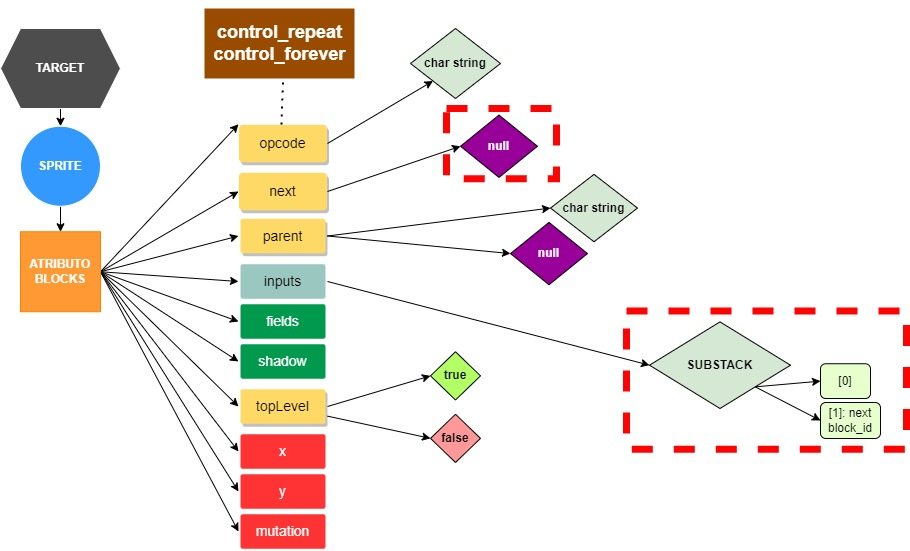
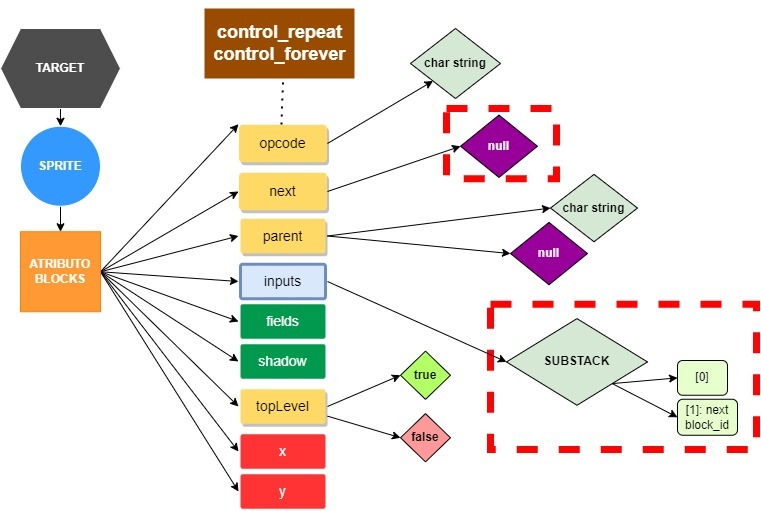
Updating

diff --git a/memoria.tex b/memoria.tex
@@ -626,15 +626,15 @@ En este capítulo se realiza una descripción detallada de la estructura del sof
 \section{Entorno y herramientas de trabajo} 
 \label{sec:entorno}
 
-Para poder obtener resultados confiables en múltiples entornos, se compila, ejecuta y depura el código en los sistemas operativos Windows e UNIX. Se hace uso de tres aplicaciones para mantener sincronizados ficheros, control de versiones y llevar un control sobre el planteamiento y la consecución de objetivos:
+Para poder obtener resultados confiables en múltiples entornos, se compila, ejecuta y depura el código en los sistemas operativos Windows e UNIX. Se hace uso de tres aplicaciones para mantener sincronizados ficheros, historial de versiones y tener un control sobre la consecución de objetivos:
 
 \begin{itemize}
-  \item \textbf{Trello:} Es usada para gestionar y organizar, a modo de tableros, las fases y tareas por realizar tanto a corto, medio y largo plazo. 
+  \item \textbf{Trello:} Aplicación usada para gestionar y organizar, a modo de tableros, las fases de las tareas a corto, medio y largo plazo. 
   \item \textbf{Dropbox:} Herramienta empleada como servicio de almacenamiento en la nube para mantener sincronizados ficheros, imágenes y referencias de la memoria.
-  \item \textbf{Github:} Es usada para alojar el código y mantener un control de versiones. Resulta muy útil para dar marcha atrás en caso de errores detectados mientras se avanza en la práctica, esto gracias al seguimiento de los cambios en el código
+  \item \textbf{Github:} Entorno usado para alojar el código y mantener un control de versiones. Resulta muy útil para dar marcha atrás en caso de errores o para crear nuevos hilos con modificaciones en el código.
 \end{itemize}
 
-En el diagrama de flujo de la imagen \ref{fig:diagrama_trabajo} se puede apreciar un diagrama del entorno y la comunicación entre las herramientas usadas.
+En la imagen \ref{fig:diagrama_trabajo} se puede apreciar un diagrama del entorno y la comunicación entre las herramientas usadas.
 
  \begin{figure}[!h]
     \centering
@@ -650,12 +650,12 @@ En el diagrama de flujo de la imagen \ref{fig:diagrama_trabajo} se puede aprecia
 
 %Si tu proyecto es un software, siempre es bueno poner la arquitectura (que es cómo se estructura tu programa a ``vista de pájaro'').
 
-A nivel general, el flujo del funcionamiento del programa es el que se puede apreciar en la imagen \ref{fig:fasedesejecucion}. El script a ejecutar es \textit{program.py} y de allí se irán concatenando llamadas a \textit{duplicatescripts.py}, \textit{most\_frequent\_blocks.py}, \textit{statistics.py} y finalmente, \textit{cluster.py}
+A nivel general, el flujo del funcionamiento del programa es el que se puede apreciar en la imagen \ref{fig:fasedesejecucion}. El script a ejecutar es \textit{program.py} y de allí se irán concatenando llamadas a \textit{duplicatescripts.py}, \textit{most\_frequent\_blocks.py}, \textit{statistics.py} y paralelamente, \textit{cluster.py}
 
 \begin{figure}[!htb]
   \centering
   \includegraphics[width=17cm, keepaspectratio]{img/flow.jpg}
-  \caption{Fase de extracción de datos}
+  \caption{Hilo de ejecución del programa}
   \label{fig:fasedesejecucion}
 \end{figure}
 
@@ -663,17 +663,19 @@ Para ejecutar el software es necesario que el usuario pase por línea de comando
 
 Los ficheros a analizar pueden estar en formato SB3 (extensión que emplea Scratch) en formato JSON o un fichero comprimido en formato ZIP. El software se ha desarrollado para ser escalable, por lo que, para realizar un análisis extensivo de muchos proyectos, es necesario comprimir los ficheros JSON en un contenedor ZIP. 
 
-A continuación, se detallan los scripts, funciones y clases relevantes del software desarrollado.
+A continuación, se detallan los scripts, funciones y clases relevantes del software.
 
 \subsection{program.py}
 
-Sirve como script principal. Su tarea principal es servir de hilo de ejecución de todo el programa, para ello extrae y parsea el contenido de ficheros JSON. En este programa se declara la forma como se escribirán los registros de control de ejecuciones en el archivo de logs, \textit{program\_logs.txt}, útil para depurar y encontrar excepciones durante la ejecución.
+Sirve como script principal. Su tarea es controlar el hilo de ejecución de todo el programa, para ello extrae y recorre el contenido de ficheros JSON. Esto es posible a través de las funciones \textbf{sb3\_json\_extraction} y \textbf{obtaining\_json}. En este script se declara la forma como se escribirán los registros de control de ejecuciones en el archivo de logs, \textit{program\_logs.txt}. Este fichero resulta muy útil para depurar y encontrar excepciones durante la ejecución.
 
 \subsection{duplicateScripts.py}
 
-Este programa toma como argumentos el nombre del fichero con su extensión correspondiente, el contenido del archivo JSON y el argumento opcional que indica si se ignorará, o no, ciertos tipos de bloques.
+Este script toma como argumentos el nombre del fichero con su extensión correspondiente, el contenido del archivo JSON y el argumento opcional que indica si se ignoraran, o no, ciertos tipos de bloques.
 
-El contenido del JSON se recorrerá a modo de diccionario, empezando por la clave \textit{targets} que contiene todos los objetos. Seguidamente se extrae la información relevante, según cada bloque, de la clave \textit{blocks}. En el código se irá almacenando, en una variable de tipo diccionario, la clave/valor: \textit{block\_id:opcode}, lo cual será importante para encontrar y añadir, en su posición correcta, a los bloques de control y personalizados. En la imagen \ref{fig:arboljson} se aprecia una vista de árbol general de las clave/valor del fichero JSON, y en la imagen \ref{fig:graljson} un diagrama de la estructura general de un bloque genérico.
+El contenido del JSON se recorrerá como un de diccionario, empezando por la clave \textit{targets} que contiene todos los objetos. Seguidamente se extrae la información relevante de la clave \textit{blocks}, según el tipo de bloque que sea. En el código se irá almacenando en una variable de tipo diccionario, la clave/valor: \textit{block\_id:opcode}, la cual será importante para encontrar y añadir en su posición correcta a los bloques de control y \textit{custom blocks}. En la imagen \ref{fig:arboljson} se puede apreciar una vista de árbol generalizada sobre las clave/valor del fichero JSON, que según cada tipo de bloque contendrá más o menos información. 
+
+Por otra parte, en la imagen \ref{fig:graljson} se puede apreciar un diagrama con la estructura general de un bloque genérico. Las claves de color amarillo siempre están presentes por lo que son importantes para organizar la estructura de mis bloques. Las claves de color verde no son importantes para la organización aunque aparezcan en todos los tipos de bloque. Las claves de color azul no siempre están presentes pero son igualmente importantes. Por último, las claves de color rojo no aparecen siempre y tampoco son relevantes.
 
 \begin{figure}[!htb]
   \centering
@@ -684,33 +686,41 @@ El contenido del JSON se recorrerá a modo de diccionario, empezando por la clav
 
 \begin{figure}[!htb]
   \centering
-  \includegraphics[width=17cm, keepaspectratio]{img/block_general.jpg}
+  \includegraphics[width=13cm, keepaspectratio]{img/block_general.jpg}
   \caption{Estructura general de un bloque genérico}
   \label{fig:graljson}
 \end{figure}
 
-
-Todas las categorías de bloques suelen tener una estructura similar pero no todos sus campos son relevantes. Las claves como \textbf{opcode}, \textbf{parent}, \textbf{next} y \textbf{topLevel} son esenciales para la organización y extracción de datos. Otras claves, como \textbf{inputs} y \textbf{mutation} no aparecen en todos los tipos de bloques, sin embargo, son igualmente imprescindibles para obtener el orden correcto en el conjunto de scripts. Es importante enfatizar que el \textit{Block\_ID} es un valor único por bloque, totalmente independiente del \textit{opcode}. A continuación, se enumeran los casos genéricos y particulares considerados:
+\newpage 
+Como indicamos en el apartado anterior, todos los tipos de bloques suelen tener una estructura similar pero no todos sus campos son relevantes. Las claves como \textbf{opcode}, \textbf{parent}, \textbf{next} y \textbf{topLevel} son esenciales para la organización y extracción de datos. Otras claves, como \textbf{inputs} y \textbf{mutation} no aparecen en todos los tipos de bloques, sin embargo, son igualmente imprescindibles para obtener el orden correcto del conjunto de scripts. Es importante enfatizar que el \textit{Block\_ID} es un valor \textbf{único por bloque}, totalmente independiente del \textit{opcode}. A continuación, se enumeran los casos genéricos y particulares considerados:
 
 \begin{enumerate}
+
 \item Si el valor de \textbf{topLevel} es True significa que el elemento es el primer bloque de mi script. En este caso el valor de la clave \textbf{parent} es null. 
+
 \item Si el valor de \textbf{topLevel} es False significa que el elemento no es el primer bloque. En este caso el valor de la clave \textbf{parent} contiene el \textit{Block\_ID} del bloque superior.
+
 \item La clave de \textbf{opcode} siempre tendrá como valor un string con el nombre de ese bloque.
-\item El valor de \textbf{next} puede ser un string con el \textit{Block\_ID} del siquiente bloque o puede ser null. En este último caso, puede ser porque es el último elemento del script, porque es un bloque de control (control\_repeat, control\_forever) o porque es un bloque definido por el usuario (custom\_block). En la imagen \ref{fig:loopsforever} se puede ver un ejemplo de esto.
-\item Dentro del valor \textbf{inputs} se encuentra otra clave llamada \textbf{substack} que contiene los elementos internos de los bloques de control (control\_repeat, control\_forever, control\_if, control\_repeat\_until y control\_if\_else). Este valor es exclúsivo de este tipo de bloques. En las imagenes \ref{fig:controlblock} y \ref{fig:scratch_control} se ejemplifican estos casos.
-\item Para el caso especial del bloque control\_if\_else el valor \textbf{substack2} contiene otra lista con la secuencia de bloques internas en el hilo condicional. En la imagen \ref{fig:controlblock_spe} se puede ver un ejemplo de la estructura del JSON y en la imagen \ref{fig:scratch_special} un script y sus elementos.
+
+
+\item El valor de \textbf{next} puede ser un string con el \textit{Block\_ID} del siquiente bloque o puede ser null. En este último caso, puede ser porque es el último elemento del script, porque es un bloque de control \textit{(control\_repeat, control\_forever)} o porque es un bloque definido por el usuario \textit{(custom\_block)}. En la imagen \ref{fig:loopsforever} se puede apreciar un diagrama con las claves y valores relevantes para este tipo de bloques.
+
+\item Dentro del valor \textbf{inputs} se encuentra otra clave llamada \textbf{substack} que contiene los elementos internos de los bloques de control (\textit{control\_repeat, control\_forever, control\_if, control\_repeat\_until y control\_if\_else)}. Este valor es exclúsivo de este tipo de bloques. En la imagen \ref{fig:controlblock} se ejemplifica este caso y en la imagen \ref{fig:scratch_control} se muestra la interfaz de Scratch, a modo de puzle, sobre el script y sus referencias en el JSON.
+
+\item Para el caso especial del bloque \textit{control\_if\_else} el valor \textbf{substack2} contiene una lista con la secuencia de bloques internas en el hilo condicional. En la imagen \ref{fig:controlblock_spe} se ejemplifica la estructura especial de este tipo de bloques y en la imagen \ref{fig:scratch_special} se aprecia la interfaz de Scratch.
+
 \item Se añaden las siguientes marcas de control al finalizar los siguientes bloques:
 \begin{itemize}
-\item Marca ''END\_IF'' al final de la primera condición de los bloques control\_if, control\_repeat\_until y control\_if\_else
-\item Marca ''END\_ELSE'' al final de la segunda condición del bloque control\_if\_else
-\item Marca ''END\_LOOP'' al final de todos los bloques de control
+\item Marca ''END\_IF'' al final de la primera condición de los bloques \textit{control\_if, control\_repeat\_until} y \textit{control\_if\_else}.
+\item Marca ''END\_ELSE'' al final de la segunda condición del bloque \textit{control\_if\_else}.
+\item Marca ''END\_LOOP'' al final de todos los bloques de control.
 \end{itemize}
 \end{enumerate}
 
 \begin{figure}
   \centering
   \includegraphics[width=15cm, keepaspectratio]{img/block_loop.jpg}
-  \caption{Estructura general de un bloque de tipo control\_repeat y control\_forever}
+  \caption{Estructura general de un bloque de tipo control\_repeat o control\_forever}
   \label{fig:loopsforever}
 \end{figure}
 
@@ -724,7 +734,7 @@ Todas las categorías de bloques suelen tener una estructura similar pero no tod
 \begin{figure}
   \centering
   \includegraphics[width=13cm, keepaspectratio]{img/scratch_control.jpg}
-  \caption{Script con bloques de control}
+  \caption{Script con bloque condicional de tipo control\_if}
   \label{fig:scratch_control}
 \end{figure}
 
@@ -763,35 +773,37 @@ Para los bloques personalizados por el usuario, los \textit{custom\_blocks}, se 
 
 \item Para elementos con \textbf{opcode} cuyo valor sea \textit{procedures\_call}:
 \begin{itemize}
-\item En su clave \textbf{mutation} se encuentra el nombre de la función lo que permitirá contabilizar el número de llamadas que se hagan.
+\item En su clave \textbf{mutation} se encuentra el nombre de la función lo que permitirá contabilizar el número de llamadas.
 \end{itemize}
 \end{enumerate}
 
+En las imágenes \ref{fig:block_prototype} y \ref{fig:block_definition} podemos apreciar un ejemplo sobre la estructura de las clave:valor que contiene el JSON. Por último, se realiza una comparación en la imagen \ref{fig:differences} sobre los distintos valores de cada bloque. Se aprecia que la información relevante para continuar con la organización secuencial está en \textit{procedures\_prototype} mientras que el contenido del custom block la tiene \textit{procedures\_definition}.
+
 \begin{figure}[!htb]
   \centering
-  \includegraphics[width=13cm, keepaspectratio]{img/block_prototype.jpg}
+  \includegraphics[width=10cm, keepaspectratio]{img/block_prototype.jpg}
   \caption{Estructura general de un bloque de tipo block\_prototype}
-  \label{fig:controlblock_spe}
+  \label{fig:block_prototype}
 \end{figure}
 
 \begin{figure}[!htb]
   \centering
-  \includegraphics[width=15cm, keepaspectratio]{img/block_definition.jpg}
+  \includegraphics[width=13cm, keepaspectratio]{img/block_definition.jpg}
   \caption{Estructura general de un bloque de tipo block\_definition}
-  \label{fig:controlblock_spe}
+  \label{fig:block_definition}
 \end{figure}
 
 \begin{figure}[!htb]
   \centering
-  \includegraphics[width=13cm, keepaspectratio]{img/scratch_custom.jpg}
-  \caption{Diferencias entres los bloques custom\_block}
-  \label{fig:scratch_special}
+  \includegraphics[width=14cm, keepaspectratio]{img/scratch_custom.jpg}
+  \caption{Diferencias entre tipos de bloques custom\_block}
+  \label{fig:differences}
 \end{figure}
 
 \newpage 
 Uno de los principales problemas al momento de analizar el JSON ha sido ordenar de forma correcta la estructura de bloques, ya que por defecto no se muestran de forma ordenada. Para lograrlo se crean dos diccionarios: \textit{scripts\_dict} que almacena como valor los bloques de cada sprite y el diccionario \textit{blocks\_dict} que almacena como clave el block\_id de cada bloque y como valor su opcode. Además, este último es esencial para insertar bloques según el block\_id del parent que le corresponda.
 
-Una vez se tiene todos los bloques de cada sprite ordenados se procede a obtener los bloques duplicados. Esto se logra gracias a la función \textbf{find\_dups}, que toma como argumento una lista de bloques. Puede ser, exclusiva para los bloques de cada objeto(\textit{intra-sprite})o para todos los bloques del proyecto (\textit{wide-project}). La función hace uso de la clase sequenceMatcher para comparar, palabra a palabra, cada bloque entre sí y devolver una lista con los bloque que mas se repitan. 
+Una vez se tiene todos los bloques de cada sprite ordenados se procede a obtener los bloques duplicados. Esto se logra gracias a la función \textbf{find\_dups}, que toma como argumento una lista de bloques. Puede ser, exclusiva para los bloques de cada objeto (\textit{intra-sprite})o para todos los bloques del proyecto (\textit{wide-project}). La función hace uso de la clase \textbf{sequenceMatcher} para comparar, palabra a palabra, cada bloque entre sí y devolver una lista con los bloque que más se repitan en cada iteración. 
 
 % IMAGEN DE CODIGO, MEJOR NO.
 %\begin{figure}
@@ -804,12 +816,12 @@ Una vez se tiene todos los bloques de cada sprite ordenados se procede a obtener
 \section{Obtención de datos} 
 \label{sec:obtenciondatos}
 
-Para finalizar la ejecución de \textbf{duplicateScripts.py}, se ejecuta la función \textbf{finalize} se genera tres ficheros de tipo JSON. En la imagen \ref{fig:flow_finddups} se puede apreciar un diagrama acerca la última fase de ejecución de este script.
+Para finalizar \textbf{duplicateScripts.py}, se ejecuta la función \textbf{finalize} que genera tres ficheros de tipo JSON. En la imagen \ref{fig:flow_finddups} se puede apreciar un diagrama acerca esta última fase de ejecución.
 
 \begin{itemize}
 \item ''filename''-sprite.json: Contendrá las cadena de bloques mas repetidos por objeto.
 \item ''filename''-project.json: Contendrá las cadena de bloques mas repetidos en todo el programa.
-\item ''filename''-custom.json: Contendrá las cadena de bloques personalizados mas repetidos en todo el programa.
+\item ''filename''-custom.json: Contendrá información relevante sobre los bloques personalizadoss presente en cada script, además del recuento de llamadas.
 \end{itemize}
 
 \begin{figure}[!htb]
@@ -849,8 +861,6 @@ Este script analiza los ficheros JSON generados por el código de \textbf{duplic
 
 Luego se añade el elemento al final de la lista block\_list. Finalmente, la lista block\_list se convierte en una cadena y se añade a la lista scripts. 
 
-La función json2dna devuelve la lista y... POR DESARROLLAR
-
 \begin{figure}[!htb]
   \centering
   \includegraphics[width=13cm, keepaspectratio]{img/flow_statistics.jpg}
@@ -863,23 +873,24 @@ La función json2dna devuelve la lista y... POR DESARROLLAR
 
 \subsection{cluster.py}
 
-El algoritmo que se emplea es el algoritmo de propagación de afinidad es un algoritmo de aprendizaje automático que se utiliza para encontrar patrones ocultos en datos no estructurados. Se basa en la idea de que los datos que se parecen a unos pocos puntos de datos son más probable que sean similares a otros puntos de datos. El algoritmo se ejecuta en iteraciones, en cada iteración, se seleccionan algunos puntos de datos y se les asignan etiquetas. Luego, el algoritmo busca otros puntos de datos que se parezcan a los puntos de datos etiquetados y les asigna las mismas etiquetas. El algoritmo continúa iterando hasta que todos los puntos de datos hayan sido etiquetados.
+El algoritmo que se emplea es el algoritmo de propagación por afinidad es un algoritmo de aprendizaje automático que se utiliza para encontrar patrones ocultos en datos no estructurados. Se basa en la idea de que los datos que se parecen a unos pocos puntos de datos son más probable que sean similares a otros puntos de datos. El algoritmo se ejecuta en iteraciones, en cada iteración, se seleccionan algunos puntos de datos y se les asignan etiquetas. Luego, el algoritmo busca otros puntos de datos que se parezcan a los puntos de datos etiquetados y les asigna las mismas etiquetas. El algoritmo continúa iterando hasta que todos los puntos de datos hayan sido etiquetados.
 
 El código de este script importa la función de levenshtein de la biblioteca distance y la función Counter de la biblioteca collections. Luego, define una función llamada json2dna que toma como argumento un archivo JSON y devuelve los scripts como caracteres. En la función main, el código convierte los scripts en una matriz y luego usa la función de levenshtein para calcular la similitud entre los scripts. Finalmente, el código imprime los resultados del clustering.
-
-La propagación de afinidad toma como entrada una colección de similitudes de valor real entre puntos de datos, donde la similitud s(i,k) indica
 
 \section{Visualización de resultados} 
 \label{sec:visualizacionresultados}
 
-Se visualizan los resultados por línea de comando de la siguiente forma:
+A continuación, un ejemplo genérico sobre como se visualizan los resultados por línea de comandos:
 
 \begin{lstlisting}[style=consola,numbers=none]
 *** STARTING ANALYSIS  ***
 
+/// IGNORING BLOCKS ACTIVATED /// 
+(se muestra solo si se pasa el argumento condicional -i)
+
 -- STARTING DUPLICATESCRIPTS.PY SCRIPT --
 
-Looking for duplicate blocks in (FILENAME)
+Looking for duplicate blocks in (nombre de archivo)
 
 Minimum number of blocks:  X
 
@@ -950,15 +961,13 @@ Different blocks: XX
 %Describe los experimentos y casos de test que tuviste que implementar para validar tus resultados. 
 %Incluye también los resultados de validación que permiten afirmar que tus resultados son correctos. 
 
-Se creaban programas en scratch y se verificaba que estaba bien
+La experimentación para este proyecto se ha desarrollado a modo de ensayo y error. Contaba con una serie de 200 ficheros para corroborar la correcta detección de las duplicidades. Al ejecutar la herramienta en estos ficheros se obtuvieron resultados satisfactorios, mostrando por pantalla la información de cada proyecto de manera satisfactoria.
 
 Se ejecuta sobre el test.sb3
 
-Se ejecuta sobre múltitud de ficheros hasta que ya no salen errores en los logs
+Se creaban programas en scratch y se comprueba que los resultados que muestra el programa son verídicos.
 
-Hablar sobre los test unitarios
-
-Como resultado se obtiene
+Para analizar la funcionalidad de mi código se crean los ficheros \textit{test\_program.py}, \textit{test\_DuplicateScripts.py} y \textit{test\_most\_frequent\_block.py}
 
 %%%%%%%%%%%%%%%%%%%%%%%%%%%%%%%%%%%%%%%%%%%%%%%%%%%%%%%%%%%%%%%%%%%%%%%%%%%%%%%%
 %%%%%%%%%%%%%%%%%%%%%%%%%%%%%%%%%%%%%%%%%%%%%%%%%%%%%%%%%%%%%%%%%%%%%%%%%%%%%%%%
